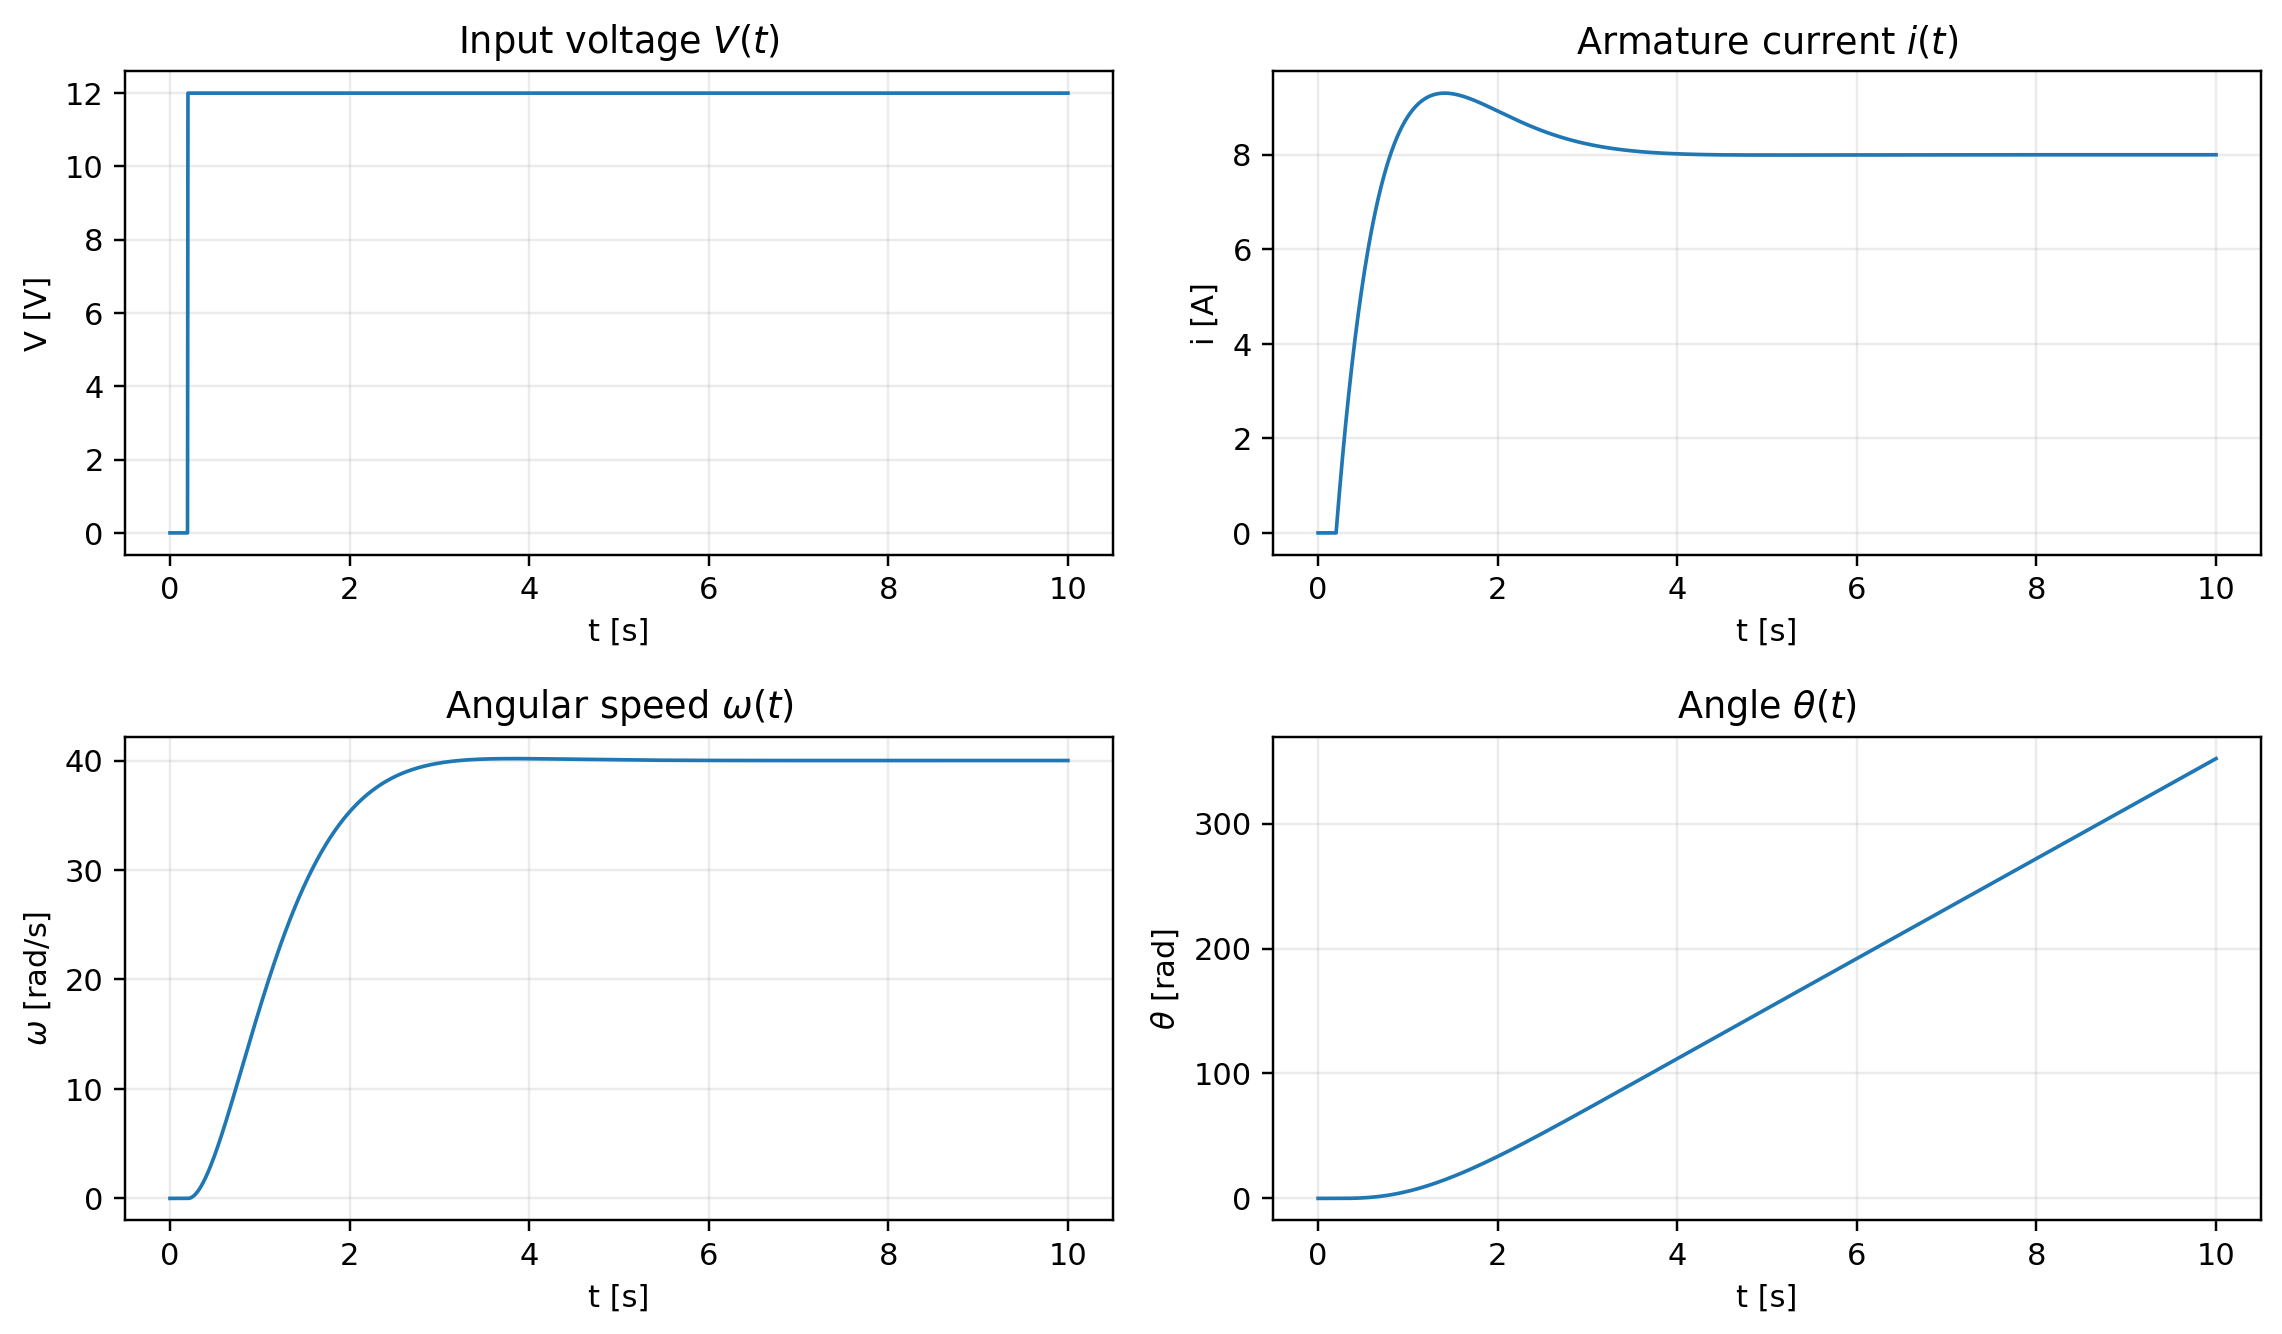
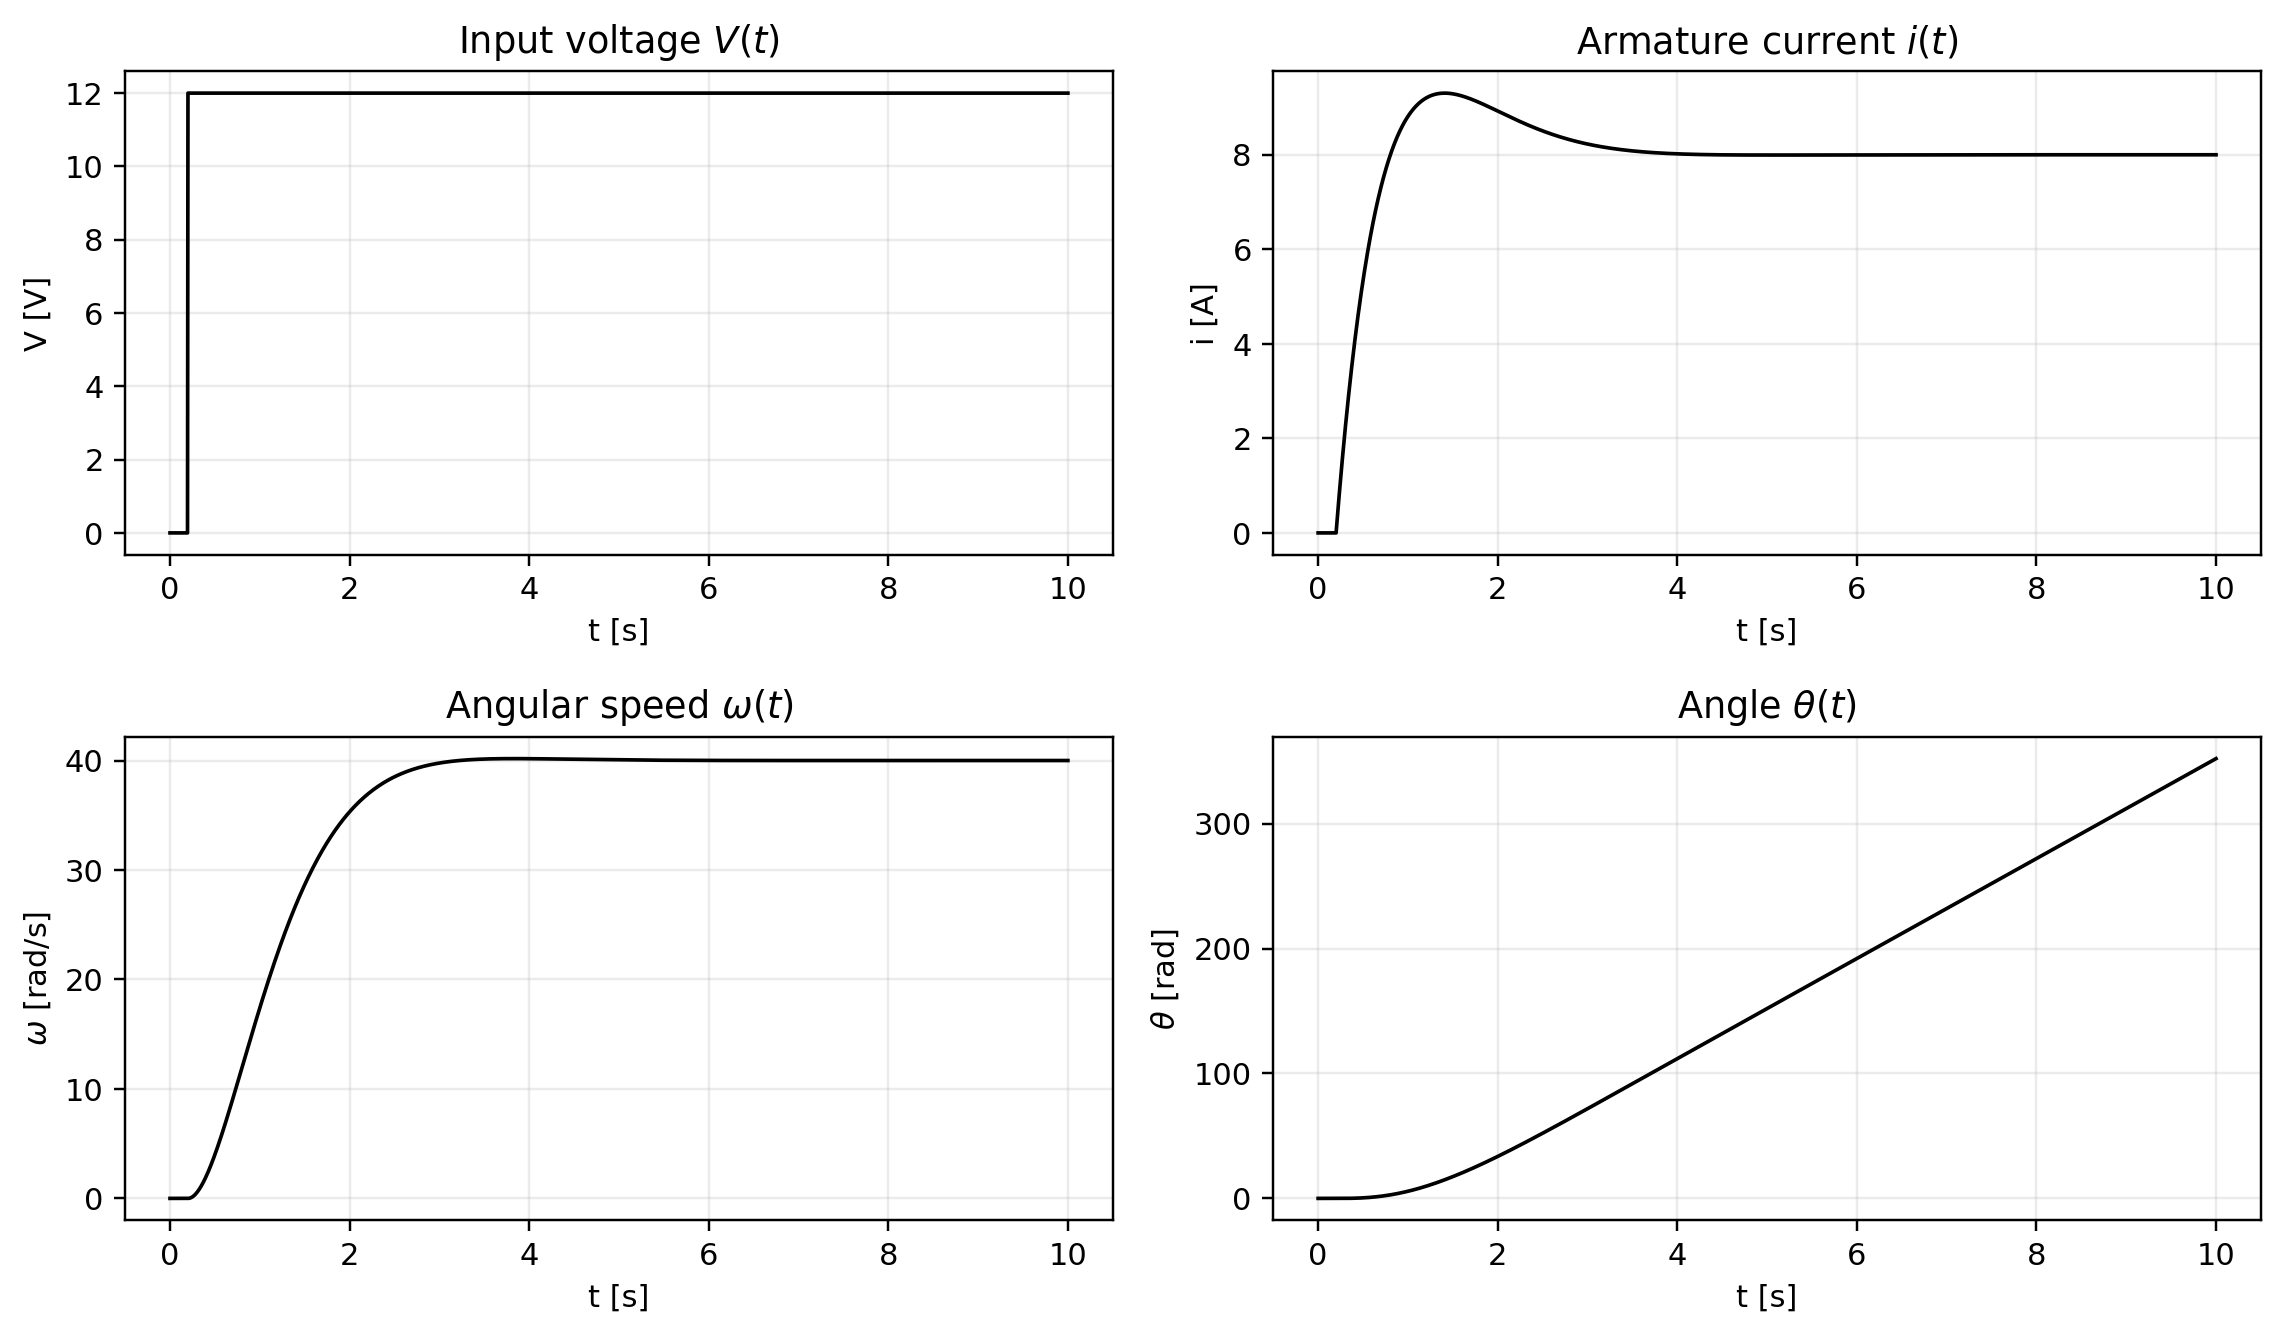
last commit befoe christams

diff --git a/tools/ch6_generate_62.py b/tools/ch6_generate_62.py
@@ -198,22 +198,22 @@ def gen_dc_motor(out: Path, save_csv: bool, T: float, fps: int, method: str, rto
     fig, axs = plt.subplots(2, 2, figsize=(10.5, 6.2))
     axs = axs.ravel()
 
-    axs[0].plot(t, V, linewidth=1.2)
+    axs[0].plot(t, V, linewidth=1.2, color="black")
     axs[0].set_title(r"Input voltage $V(t)$")
     axs[0].set_xlabel("t [s]"); axs[0].set_ylabel("V [V]")
     _setup_ax(axs[0])
 
-    axs[1].plot(t, i, linewidth=1.2)
+    axs[1].plot(t, i, linewidth=1.2, color="black")
     axs[1].set_title(r"Armature current $i(t)$")
     axs[1].set_xlabel("t [s]"); axs[1].set_ylabel("i [A]")
     _setup_ax(axs[1])
 
-    axs[2].plot(t, w, linewidth=1.2)
+    axs[2].plot(t, w, linewidth=1.2, color="black")
     axs[2].set_title(r"Angular speed $\omega(t)$")
     axs[2].set_xlabel("t [s]"); axs[2].set_ylabel(r"$\omega$ [rad/s]")
     _setup_ax(axs[2])
 
-    axs[3].plot(t, theta, linewidth=1.2)
+    axs[3].plot(t, theta, linewidth=1.2, color="black")
     axs[3].set_title(r"Angle $\theta(t)$")
     axs[3].set_xlabel("t [s]"); axs[3].set_ylabel(r"$\theta$ [rad]")
     _setup_ax(axs[3])

diff --git a/docs/installation.md b/docs/installation.md
@@ -63,7 +63,7 @@ Run from the repository root (so imports work):
 
 ```bash
 python tools/ch6_perf_baseline_uniform.py --out figures/chapter_05/section6.4
-python tools/ch6_generate_62_white_blacklines_with_inverted_v2.py --out figures/chapter_05/section6.2
+python tools/ch6_generate_62.py --out figures/chapter_05/section6.2
 ```
 
 Legacy scripts live under `scripts_leagacy/` and are not guaranteed to match the current API.

diff --git a/README.md b/README.md
@@ -75,7 +75,7 @@ Run from the repository root.
 ### Chapter 6.2: model “diagnostic cards” (group figures)
 
 ```bash
-python tools/ch6_generate_62_white_blacklines_with_inverted_v2.py \
+python tools/ch6_generate_62.py \
   --out figures/chapter_05/section6.2 \
   --method DOP853 --rtol 1e-4 --atol 1e-6 --T 10 --fps 200
 ```

diff --git a/docs/scripts.md b/docs/scripts.md
@@ -22,7 +22,7 @@ What it does:
 Example:
 
 ```bash
-python tools/ch6_generate_62_white_blacklines_with_inverted_v2.py \
+python tools/ch6_generate_62.py \
   --out figures/chapter_05/section6.2 \
   --method DOP853 --rtol 1e-4 --atol 1e-6 --T 10 --fps 200
 ```
